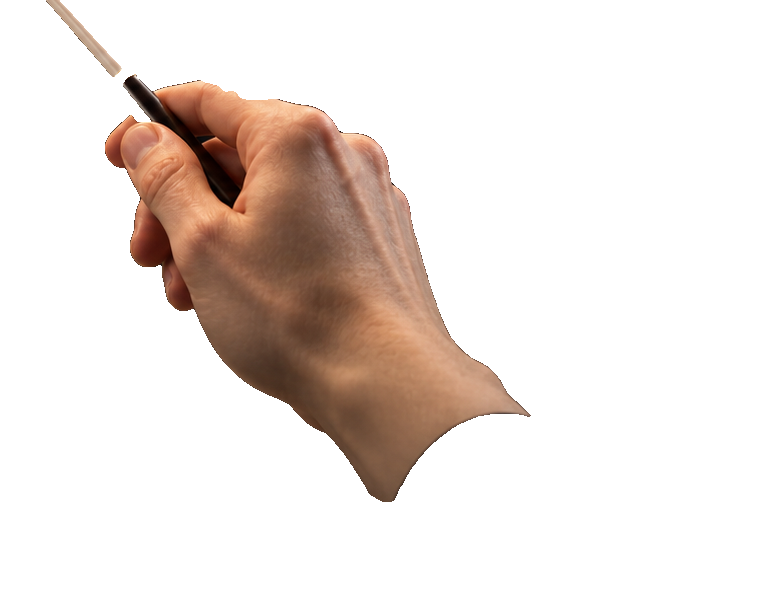
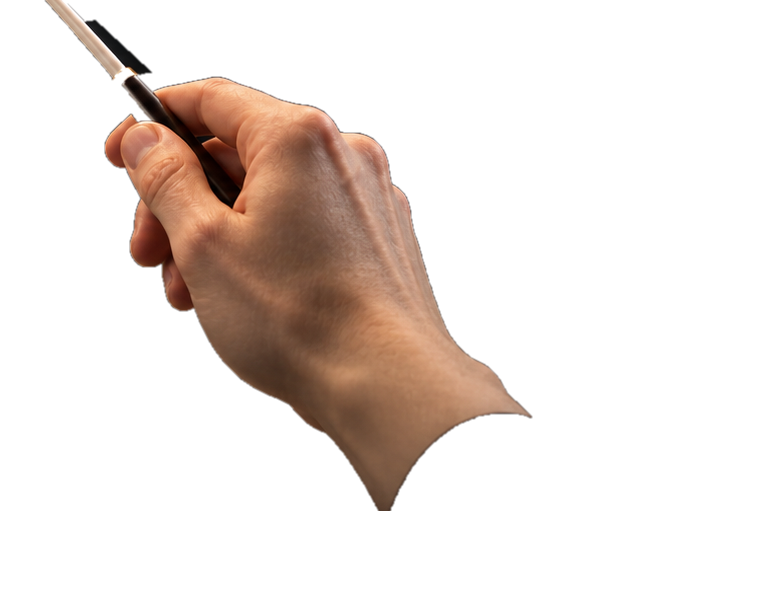
Add files via upload

diff --git a/indexconductor-receiver.html b/indexconductor-receiver.html
@@ -1,59 +1,120 @@
 <!doctype html>
-<html lang="tr"><head>
-<meta charset="utf-8"><meta name="viewport" content="width=device-width,initial-scale=1">
+<html lang="tr">
+<head>
+<meta charset="utf-8">
+<meta name="viewport" content="width=device-width,initial-scale=1">
 <title>Vocaly — Konduktör</title>
 <script src="https://unpkg.com/peerjs@1.5.5/dist/peerjs.min.js"></script>
 <style>
-*{box-sizing:border-box}html,body{margin:0;width:100%;height:100%;overflow:hidden;background:#050607}
-#scene{position:fixed;inset:0;background:#050607 center/cover no-repeat url('scene_reference.png')}
-#handWrap{position:absolute;right:1.5vw;bottom:-2vh;width:min(42vw,650px);z-index:3;transform:translate3d(0,0,0);will-change:transform}
-#handWrap img{display:block;width:100%;height:auto;filter:drop-shadow(0 10px 22px rgba(0,0,0,.35))}
-#status{position:absolute;right:24px;bottom:22px;z-index:8;padding:12px 15px;border:1px solid #334042;border-radius:12px;background:rgba(5,8,9,.88);color:#dce2e2;font:12px Arial;min-width:245px}
-.ok{color:#8ee6b1}.wait{color:#e5c88e}.bad{color:#ff9b9b}
-#code{font-size:10px;color:#a9b3b4;margin-top:5px;word-break:break-all}
-#read{margin-top:7px;color:#b7c0c1;font-size:10px}
-</style></head>
+*{box-sizing:border-box}
+html,body{margin:0;width:100%;height:100%;overflow:hidden;background:#050607}
+#stage{position:relative;width:100vw;height:100vh;overflow:hidden;background:#050607}
+#scene{position:absolute;inset:0;width:100%;height:100%;object-fit:cover;z-index:1}
+#hand{position:absolute;z-index:4;width:min(46vw,720px);max-width:720px;min-width:420px;left:68%;top:62%;transform:translate(-50%,-50%);pointer-events:none;will-change:transform}
+#status{position:absolute;right:24px;top:22px;z-index:10;min-width:250px;padding:11px 14px;border:1px solid rgba(210,190,140,.25);border-radius:10px;background:rgba(4,7,8,.72);backdrop-filter:blur(6px);color:#aeb9bb;font:12px Arial;line-height:1.5}
+.ok{color:#8de5ae}.wait{color:#e5c88e}.bad{color:#ff9b9b}
+#cal{position:absolute;right:24px;bottom:22px;z-index:10;padding:10px 14px;background:rgba(8,11,12,.82);color:#eee;border:1px solid #394346;border-radius:9px;font-weight:700}
+#data{position:absolute;left:22px;bottom:18px;z-index:10;color:#6f7c7e;font:10px monospace;opacity:.8}
+@media(max-width:900px){#hand{width:58vw;min-width:280px;left:76%;top:68%}}
+</style>
+</head>
 <body>
-<div id="scene"></div>
-<div id="handWrap"><img src="hand_baton.png"></div>
-<div id="status"><span class="wait">● BAĞLANTI HAZIRLANIYOR…</span><div id="code"></div><div id="read"></div></div>
+<div id="stage">
+<img id="scene" src="scene.png">
+<img id="hand" src="hand_baton.png">
+<div id="status"><span class="wait">● HAZIRLANIYOR…</span></div>
+<button id="cal">NÖTR / HAREKETİ SIFIRLA</button>
+<div id="data">acc: —</div>
+</div>
+
 <script>
-const peer=new Peer(), hand=document.getElementById('handWrap');
-const status=document.getElementById('status'), code=document.getElementById('code'), read=document.getElementById('read');
-let baseB=null,baseG=null,x=0,y=0,tx=0,ty=0,last=performance.now();
+const peer=new Peer();
+const statusEl=document.getElementById('status');
+const hand=document.getElementById('hand');
+const dataEl=document.getElementById('data');
+const calBtn=document.getElementById('cal');
+
+let baseX=0,baseY=0,baseZ=0;
+let calSamples=[], calibrated=false;
+let px=0,py=0,vx=0,vy=0,lastFrame=performance.now();
+let targetX=0,targetY=0;
+let lastData=0;
+
+function clamp(v,a,b){return Math.max(a,Math.min(b,v))}
+function setStatus(html){statusEl.innerHTML=html}
 
 peer.on('open',id=>{
- code.textContent='Telefon kodu: '+id;
- status.innerHTML='<span class="ok">● HAZIR</span><div id="code">Telefon kodu: '+id+'</div><div id="read"></div>';
+  setStatus('<span class="ok">● HAZIR</span><br>Telefon kodunu kumandaya gir.');
 });
 peer.on('connection',conn=>{
- status.innerHTML='<span class="wait">● TELEFON BAĞLANIYOR…</span>';
- conn.on('open',()=>{
-   status.innerHTML='<span class="ok">● TELEFON BAĞLANDI</span><div id="code">Nötr pozisyonu telefon sayfasından kalibre et.</div><div id="read"></div>';
- });
- conn.on('data',d=>{
-   if(!d)return;
-   const b=Number(d.beta),g=Number(d.gamma);
-   const r=document.getElementById('read');
-   if(r) r.textContent=`β ${b.toFixed(1)}°  γ ${g.toFixed(1)}°`;
-   if(!Number.isFinite(b)||!Number.isFinite(g))return;
-   if(d.calibrate){
-      baseB=b;baseG=g;tx=ty=x=y=0;return;
-   }
-   if(baseB===null){baseB=b;baseG=g}
-   const db=b-baseB, dg=g-baseG;
-   // Ayna mantığı: telefonda yukarı -> ekranda yukarı; sağ -> sağ.
-   // Önceki sürümde eksen işareti ters olduğu için burada iki ekseni de tersliyoruz.
-   tx=Math.max(-230,Math.min(230,-dg*7.0));
-   ty=Math.max(-180,Math.min(180,-db*6.0));
- });
+  setStatus('<span class="wait">● TELEFON BAĞLANIYOR…</span>');
+  conn.on('open',()=>setStatus('<span class="ok">● TELEFON BAĞLANDI</span><br>Serbest hareket verisi bekleniyor.'));
+  conn.on('data',d=>{
+    if(!d || d.type!=='motion') return;
+    const ax=Number(d.ax)||0, ay=Number(d.ay)||0, az=Number(d.az)||0;
+
+    if(d.calibrating){
+      calSamples.push([ax,ay,az]);
+      return;
+    }
+
+    if(!calibrated) {
+      // İlk stabil verileri bias olarak kabul et.
+      calSamples.push([ax,ay,az]);
+      if(calSamples.length<18) return;
+      const avg=calSamples.reduce((s,a)=>[s[0]+a[0],s[1]+a[1],s[2]+a[2]],[0,0,0]).map(v=>v/calSamples.length);
+      baseX=avg[0];baseY=avg[1];baseZ=avg[2];
+      calibrated=true;
+      calSamples=[];
+      setStatus('<span class="ok">● SERBEST HAREKET AKTİF</span><br>Telefonu fiziksel olarak hareket ettir.');
+    }
+
+    // DeviceMotion: yönelim değil, doğrusal ivme.
+    // Böylece telefonu kendi ekseninde çevirmek tek başına eli yürütmez.
+    let x=ax-baseX;
+    let y=ay-baseY;
+
+    // Sensör gürültüsü için ölü bölge.
+    const dead=.16;
+    if(Math.abs(x)<dead)x=0;
+    if(Math.abs(y)<dead)y=0;
+
+    // Telefonun Y ekseni yukarı yönlü; ekran Y'si aşağı yönlü.
+    const gain=1100;
+    targetX=clamp(targetX + x*gain/60, -430, 430);
+    targetY=clamp(targetY - y*gain/60, -300, 300);
+
+    const now=performance.now();
+    dataEl.textContent=`acc ${x.toFixed(2)} / ${y.toFixed(2)} / ${az-baseZ.toFixed?.(2) ?? 0}`;
+    lastData=now;
+  });
+  conn.on('close',()=>setStatus('<span class="wait">● TELEFON BAĞLANTISI KAPANDI</span>'));
+  conn.on('error',e=>setStatus('<span class="bad">● BAĞLANTI HATASI</span><br>'+e.message));
 });
-function loop(){
- const now=performance.now(),dt=Math.min(.05,(now-last)/1000);last=now;
- const k=1-Math.exp(-dt*16);
- x+=(tx-x)*k;y+=(ty-y)*k;
- hand.style.transform=`translate3d(${x}px,${y}px,0)`;
- requestAnimationFrame(loop);
+
+calBtn.onclick=()=>{
+  calibrated=false;calSamples=[];baseX=baseY=baseZ=0;
+  targetX=targetY=0;px=py=0;vx=vy=0;
+  setStatus('<span class="wait">● KALİBRE EDİLİYOR…</span><br>Telefonu sabit tut.');
+};
+
+function animate(){
+  const now=performance.now(),dt=Math.min(.033,(now-lastFrame)/1000);lastFrame=now;
+
+  // Hedef konuma yay gibi yaklaş: serbest hareket, vektörle kilitli değil.
+  const stiffness=15;
+  const damping=8;
+  vx += (targetX-px)*stiffness*dt;
+  vy += (targetY-py)*stiffness*dt;
+  vx *= Math.exp(-damping*dt);
+  vy *= Math.exp(-damping*dt);
+  px += vx*dt;py += vy*dt;
+
+  // El/baton tek görsel; bağımsız baton dönüşü yok.
+  hand.style.transform=`translate(calc(-50% + ${px}px), calc(-50% + ${py}px))`;
+  requestAnimationFrame(animate);
 }
-loop();
-</script></body></html>
+animate();
+</script>
+</body>
+</html>

diff --git a/indexconductor-phone.html b/indexconductor-phone.html
@@ -1,43 +1,65 @@
 <!doctype html>
-<html lang="tr"><head><meta charset="utf-8"><meta name="viewport" content="width=device-width,initial-scale=1,maximum-scale=1,user-scalable=no">
+<html lang="tr">
+<head>
+<meta charset="utf-8">
+<meta name="viewport" content="width=device-width,initial-scale=1,maximum-scale=1,user-scalable=no">
 <title>Vocaly — Telefon Kumanda</title>
 <script src="https://unpkg.com/peerjs@1.5.5/dist/peerjs.min.js"></script>
 <style>
 *{box-sizing:border-box}body{margin:0;background:#050708;color:#eef2f1;font-family:Arial,sans-serif}
-main{width:min(560px,100%);margin:auto;padding:28px 20px}.sub{color:#789092;font-size:10px;letter-spacing:2px}
-h1{letter-spacing:7px;margin:0 0 6px} .card{margin-top:18px;padding:18px;border:1px solid #334042;border-radius:16px;background:#101617}
-input,button{width:100%;height:50px;border-radius:10px}input{background:#080b0c;color:#fff;border:1px solid #384447;padding:0 14px;font-size:15px}
-button{margin-top:10px;border:0;background:#e5c88e;color:#111;font-weight:700}.secondary{background:#171d1e;color:#eee;border:1px solid #394346}
-#status{margin-top:13px;padding:13px;background:#171d1e;border-radius:10px;font-size:12px;line-height:1.6}.ok{color:#8ee6b1}.bad{color:#ff9b9b}.wait{color:#e5c88e}
-</style></head><body><main><h1>VOCALY</h1><div class="sub">KONDUKTÖR • TELEFON KUMANDA</div>
-<div class="card"><input id="target" placeholder="Bilgisayar kodunu gir">
-<button id="connect">BİLGİSAYARA BAĞLAN</button><button id="cal" class="secondary" disabled>NÖTR POZİSYONU KALİBRE ET</button><button id="sensor" disabled>SENSÖRÜ BAŞLAT</button>
-<div id="status"><span class="wait">● HAZIRLANIYOR…</span></div></div></main>
+main{width:min(560px,100%);padding:26px 20px 40px;margin:auto}h1{letter-spacing:6px}.sub{color:#789092;font-size:10px;letter-spacing:2px}
+.card{margin-top:18px;padding:18px;border:1px solid #334042;border-radius:16px;background:#101617}
+input{width:100%;height:50px;background:#080b0c;color:white;border:1px solid #384447;border-radius:10px;padding:0 14px;font-size:15px}
+button{width:100%;height:50px;border:0;border-radius:10px;background:#e5c88e;color:#111;font-weight:700;margin-top:10px}
+.status{margin-top:13px;padding:13px;border-radius:10px;background:#171d1e;font-size:12px;line-height:1.6}
+.ok{color:#8ee6b1}.wait{color:#e5c88e}.bad{color:#ff9b9b}
+</style>
+</head>
+<body><main>
+<h1>VOCALY</h1><div class="sub">KONDUKTÖR • SERBEST HAREKET KUMANDA</div>
+<div class="card">
+<input id="target" placeholder="Bilgisayar kodunu gir">
+<button id="connect">BİLGİSAYARA BAĞLAN</button>
+<button id="sensor" disabled>SENSÖRÜ BAŞLAT</button>
+<div id="status" class="status"><span class="wait">● HAZIRLANIYOR…</span></div>
+</div>
+</main>
 <script>
-const peer=new Peer();let conn=null,last=0,active=false,base=null;
-const status=document.getElementById('status'),sensor=document.getElementById('sensor'),cal=document.getElementById('cal');
-peer.on('open',()=>status.innerHTML='<span class="ok">● HAZIR</span><br>Bilgisayar kodunu gir.');
-peer.on('error',e=>status.innerHTML='<span class="bad">● PeerJS: '+e.type+'</span>');
+let peer=new Peer(),conn=null,last=0;
+const target=document.getElementById('target'),statusEl=document.getElementById('status'),sensor=document.getElementById('sensor');
+peer.on('open',()=>statusEl.innerHTML='<span class="ok">● HAZIR</span><br>Bilgisayar kodunu gir.');
+peer.on('error',e=>statusEl.innerHTML='<span class="bad">● PeerJS hatası: '+e.type+'</span>');
+
 document.getElementById('connect').onclick=()=>{
- conn=peer.connect(document.getElementById('target').value.trim(),{reliable:false});
- status.innerHTML='<span class="wait">● BAĞLANIYOR…</span>';
- conn.on('open',()=>{status.innerHTML='<span class="ok">● BİLGİSAYAR BAĞLANDI</span><br>Telefonu nötr tutup kalibre et.';sensor.disabled=false;cal.disabled=false});
- conn.on('error',e=>status.innerHTML='<span class="bad">● Bağlantı hatası</span><br>'+e.message);
+ const id=target.value.trim(); if(!id)return;
+ conn=peer.connect(id,{reliable:false});
+ statusEl.innerHTML='<span class="wait">● BAĞLANIYOR…</span>';
+ conn.on('open',()=>{statusEl.innerHTML='<span class="ok">● BİLGİSAYAR BAĞLANDI</span><br>Şimdi sensörü başlat.';sensor.disabled=false});
+ conn.on('error',e=>statusEl.innerHTML='<span class="bad">● Bağlantı hatası</span><br>'+e.message);
 };
-cal.onclick=()=>{base=null;active=true;status.innerHTML='<span class="ok">● KALİBRE EDİLDİ</span><br>Artık hareket birebir ayna gibi aktarılacak.'};
+
 sensor.onclick=async()=>{
+ if(!window.isSecureContext){statusEl.innerHTML='<span class="bad">● HTTPS gerekli.</span>';return}
+ if(typeof DeviceMotionEvent==='undefined'){statusEl.innerHTML='<span class="bad">● DeviceMotion desteklenmiyor.</span>';return}
  try{
-  if(!window.isSecureContext)throw new Error('HTTPS gerekli');
-  if(typeof DeviceOrientationEvent.requestPermission==='function'){
-   const p=await DeviceOrientationEvent.requestPermission();if(p!=='granted')throw new Error('Sensör izni verilmedi');
+  if(typeof DeviceMotionEvent.requestPermission==='function'){
+   const p=await DeviceMotionEvent.requestPermission();
+   if(p!=='granted')throw new Error('Sensör izni verilmedi');
   }
-  window.addEventListener('deviceorientation',e=>{
-   if(!conn?.open)return;
-   const now=performance.now();if(now-last<33)return;last=now;
-   if(base===null)base={b:e.beta,g:e.gamma};
-   conn.send({beta:e.beta,gamma:e.gamma,calibrate:false,t:Date.now()});
+  window.addEventListener('devicemotion',e=>{
+    const a=e.acceleration;
+    if(!a || a.x===null || a.y===null){
+      statusEl.innerHTML='<span class="bad">● Telefon doğrusal ivme verisi vermiyor.</span><br>Bu cihazda hareket verisi sınırlı olabilir.';
+      return;
+    }
+    const now=performance.now();
+    if(conn?.open && now-last>=33){
+      last=now;
+      conn.send({type:'motion',ax:a.x,ay:a.y,az:a.z,t:Date.now()});
+    }
   },true);
-  status.innerHTML='<span class="ok">● SENSÖR AKTİF</span><br>Telefonu hareket ettir.';
- }catch(e){status.innerHTML='<span class="bad">● '+e.message+'</span>'}
+  statusEl.innerHTML='<span class="ok">● SERBEST HAREKET SENSÖRÜ AKTİF</span><br>Telefonu sağa-sola / yukarı-aşağı fiziksel olarak hareket ettir.';
+ }catch(e){statusEl.innerHTML='<span class="bad">● '+e.message+'</span>'}
 };
-</script></body></html>
+</script>
+</body></html>
